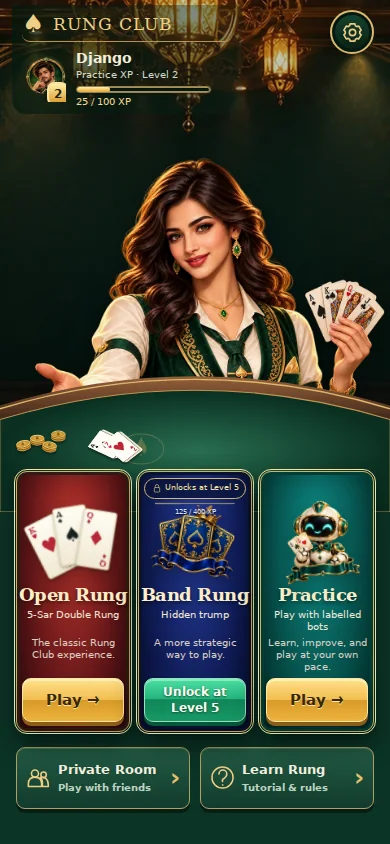
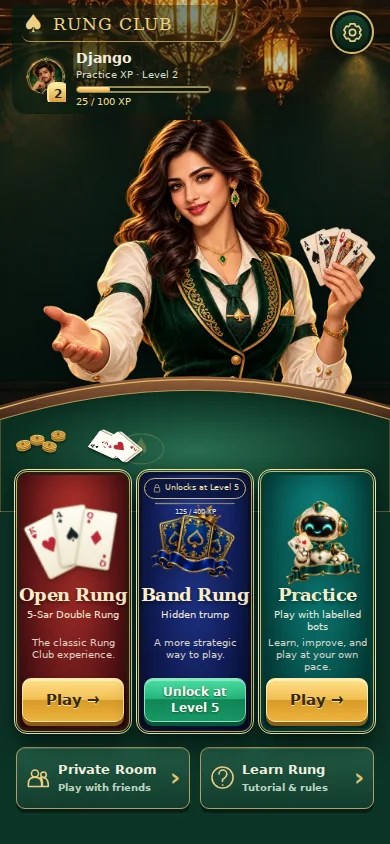
Keep dealer hands above mobile rail and retain one branded loading presentation

Changed region(s): [[0.0923, 0.1232, 0.9846, 0.4929]]

diff --git a/apps/web/main.tsx b/apps/web/main.tsx
@@ -33,7 +33,7 @@ function applyCloud(d:any){setCloudProfile(d);setProfile((p:any)=>({...p,name:d.
 async function enterClub(local:boolean,username=''){const revision=++identityRequest.current;sessionStorage.setItem('localGuest',local?'1':'0');setCloudProfile(null);setError('');if(local){const status=localStorage.getItem('onboarding:local') as TutorialStatus|null;restoreOnboarding('onboarding:local',status||(localStorage.getItem('welcome')==='1'?'completed':'not-started'));setScreen('lobby');return;}setScreen('account-loading');try{const user=await restoredIdentity();if(revision!==identityRequest.current)return;if(!user){setScreen('login');return;}setRequestedName(username);if(user.isAnonymous)setProfile((p:any)=>({...p,name:'Guest'}));const d=await accountProfile(username.trim()||undefined);if(revision!==identityRequest.current)return;applyCloud(d);setScreen(!user.isAnonymous&&/^Guest-/i.test(d.user.name)?'username':'lobby');}catch(e){if(revision===identityRequest.current){const message=authMessage(e);if(username&&/username|taken|reserved|3–20/i.test(message)){setScreen('username');setError(message);}else setError('Unable to load your profile. Retry to check your saved username.');}}}
 
 async function signOutClub(){try{identityRequest.current++;setIntro(false);setUnlock(false);setTutorial(-1);setAdvanced(null);await logout();sessionStorage.removeItem('localGuest');leave();setCloudProfile(null);setScreen('login');}catch(e){setError(authMessage(e));}}
-const [avatar,setAvatar]=useState(()=>normaliseAvatar(Number(localStorage.getItem('avatar')||1))),[cardBack,setCardBack]=useState(()=>localStorage.getItem('cardBack')||'emerald'),[emotesOpen,setEmotesOpen]=useState(false),[sortByRank,setSortByRank]=useState(false);useEffect(()=>{localStorage.setItem('avatar',String(avatar));},[avatar]);useEffect(()=>{localStorage.setItem('cardBack',cardBack);},[cardBack]);useEffect(()=>{const ready=()=>window.dispatchEvent(new Event('rung:ready'));if(window.requestAnimationFrame){const frame=window.requestAnimationFrame(ready);return()=>window.cancelAnimationFrame(frame);}const timer=setTimeout(ready,0);return()=>clearTimeout(timer);},[]);
+const [avatar,setAvatar]=useState(()=>normaliseAvatar(Number(localStorage.getItem('avatar')||1))),[cardBack,setCardBack]=useState(()=>localStorage.getItem('cardBack')||'emerald'),[emotesOpen,setEmotesOpen]=useState(false),[sortByRank,setSortByRank]=useState(false);useEffect(()=>{localStorage.setItem('avatar',String(avatar));},[avatar]);useEffect(()=>{localStorage.setItem('cardBack',cardBack);},[cardBack]);useEffect(()=>{if(screen==='account-loading'&&!error)return;const ready=()=>window.dispatchEvent(new Event('rung:ready'));if(window.requestAnimationFrame){const frame=window.requestAnimationFrame(ready);return()=>window.cancelAnimationFrame(frame);}const timer=setTimeout(ready,0);return()=>clearTimeout(timer);},[screen,error]);
 const [cloudProfile,setCloudProfile]=useState<any>(null);const [deadline,setDeadline]=useState(0),[remaining,setRemaining]=useState(20),[turnDuration,setTurnDuration]=useState(20000);const audio=useRef(new AudioEngine());const ws=useRef<WebSocket|null>(null),seq=useRef(0),canvas=useRef<HTMLDivElement|null>(null),phaser=useRef<any>(null),timers=useRef<ReturnType<typeof setTimeout>[]>([]),roomRef=useRef('');const v=remote||(game?view(game,0):null);const xp=cloudProfile?.totals.xp??profile.xp;const bandUnlocked=bandEligible(xp);const serverOffset=useRef(0);
 useEffect(()=>{if(!bandUnlocked||screen==='login'||screen==='account-loading'||screen==='username')return;const key='band-celebration:'+onboardingKey.current;if(!cloudProfile?.bandUnlockSeen&&localStorage.getItem(key)!=='1')setUnlock(true);},[bandUnlocked,screen]);
 useEffect(()=>{const a=audio.current;a.musicEnabled=settings.music;a.soundEnabled=settings.sound;if(settings.music)a.music(screen==='table'?'gameplay':'menu');else a.stop();const visibility=()=>document.hidden?a.pause():a.resume();document.addEventListener('visibilitychange',visibility);return()=>document.removeEventListener('visibilitychange',visibility);},[settings.music,settings.sound,screen]);useEffect(()=>{const id=setInterval(()=>setRemaining(Math.max(0,Math.ceil((deadline-(Date.now()+serverOffset.current))/1000))),1000);return()=>clearInterval(id);},[deadline]);useEffect(()=>{localStorage.setItem('profile',JSON.stringify(profile));},[profile]);useEffect(()=>{localStorage.setItem('settings',JSON.stringify(settings));},[settings]);
@@ -55,7 +55,7 @@ async function refreshCloud(){if(!configured)return;try{applyCloud(await account
 function leave(){pending.current=null;setSubmitting(false);ws.current?.close();ws.current=null;setOnline(false);setRemote(null);setGame(null);setAdvanced(null);setTutorial(-1);setScreen('lobby');setError('');setEmotesOpen(false);setSelected('');}
 function card(c:Card,small=false){return <span className={'card-face'+(small?' small':'')}><img src={art('house/cards/'+rank(c.rank)+c.suit+'.svg')} alt="" draggable={false}/></span>;}
 function sendReaction(text:string){if(online)ws.current?.send(JSON.stringify({type:'emote',text}));else{setChat(text);timers.current.push(setTimeout(()=>setChat(''),2500));}setEmotesOpen(false);}
-return <div className={(settings.motion?'app':'app reduced')+' screen-'+screen+(screen==='settings'?' screen-lobby settings-open'+(drawerClosing?' drawer-closing':''):'')} style={{'--card-back':`url(${art('backs/'+cardBack+'.svg')})`} as React.CSSProperties}>{(screen==='lobby'||screen==='settings')&&<Header screen={screen} profile={profile} avatar={avatar} cloudProfile={cloudProfile} online={online} leave={leave} setScreen={setScreen}/>} {screen==='settings'&&<button className="drawer-backdrop" aria-label="Close settings" tabIndex={-1} onClick={closeDrawer}/>} {screen==='account-loading'&&<main className="account-loading"><div className="boot-deck" aria-hidden="true"><span className="boot-card">♠</span><span className="boot-card">♣</span><span className="boot-card">♦</span></div><p role="status">Checking your seat…</p>{error&&<div className="account-retry"><button className="gold" onClick={()=>enterClub(false,requestedName)}>Retry profile</button><button className="quiet" onClick={()=>enterClub(true)}>Local practice</button><button className="quiet" onClick={signOutClub}>Sign out</button></div>}</main>} {screen==='delete-account'&&<AccountDeletion local={!configured||sessionStorage.getItem('localGuest')==='1'} onCancel={()=>setScreen('settings')} onDeleted={async()=>{for(const key of ['profile','avatar','cardBack','welcome','onboarding:local'])localStorage.removeItem(key);setProfile({name:'Guest',matches:0,wins:0,xp:0,tutorial:false});setAvatar(1);setCardBack('emerald');await signOutClub();}}/>} {screen==='login'&&<Login onEnter={enterClub}/>} {screen==='username'&&<main className="panel username-page"><UsernameForm key={requestedName} initial={requestedName} standalone onSaved={d=>{applyCloud(d);setError('');setScreen('lobby');}} onCancel={signOutClub}/></main>} {error&&<div role="alert" className="notice"><span>{error}</span><button onClick={()=>setError('')}>×</button></div>}
+return <div className={(settings.motion?'app':'app reduced')+' screen-'+screen+(screen==='settings'?' screen-lobby settings-open'+(drawerClosing?' drawer-closing':''):'')} style={{'--card-back':`url(${art('backs/'+cardBack+'.svg')})`} as React.CSSProperties}>{(screen==='lobby'||screen==='settings')&&<Header screen={screen} profile={profile} avatar={avatar} cloudProfile={cloudProfile} online={online} leave={leave} setScreen={setScreen}/>} {screen==='settings'&&<button className="drawer-backdrop" aria-label="Close settings" tabIndex={-1} onClick={closeDrawer}/>} {screen==='account-loading'&&<main className="boot-screen account-loading"><div className="boot-content"><h1 className="boot-brand">RUNG <b>CLUB</b></h1><p className="boot-kicker">A SEAT AT THE TABLE</p><div className="boot-deck" aria-hidden="true"><span className="boot-card">♠</span><span className="boot-card">♣</span><span className="boot-card">♦</span></div><p className="boot-message" role="status">Shuffling a little company…</p><div className="boot-dots" aria-hidden="true"><i/><i/><i/></div><p className="boot-note">GOOD CARDS. GREAT COMPANY.</p>{error&&<div className="account-retry"><p role="alert">{error}</p><button className="gold" onClick={()=>enterClub(false,requestedName)}>Retry profile</button><button className="quiet" onClick={()=>enterClub(true)}>Local practice</button><button className="quiet" onClick={signOutClub}>Sign out</button></div>}</div></main>} {screen==='delete-account'&&<AccountDeletion local={!configured||sessionStorage.getItem('localGuest')==='1'} onCancel={()=>setScreen('settings')} onDeleted={async()=>{for(const key of ['profile','avatar','cardBack','welcome','onboarding:local'])localStorage.removeItem(key);setProfile({name:'Guest',matches:0,wins:0,xp:0,tutorial:false});setAvatar(1);setCardBack('emerald');await signOutClub();}}/>} {screen==='login'&&<Login onEnter={enterClub}/>} {screen==='username'&&<main className="panel username-page"><UsernameForm key={requestedName} initial={requestedName} standalone onSaved={d=>{applyCloud(d);setError('');setScreen('lobby');}} onCancel={signOutClub}/></main>} {error&&screen!=='account-loading'&&<div role="alert" className="notice"><span>{error}</span><button onClick={()=>setError('')}>×</button></div>}
 {screen==='welcome'&&<main className="welcome"><Dealer/><div className="welcome-copy"><div className="eyebrow">YOUR SEAT IS WAITING</div><h1>Good cards.<br/>Better company.</h1><p>Four players. Two teams. Thirteen Sars.<br/>Welcome to the card house.</p><button className="gold" onClick={()=>practice(true)}>Learn to Play <Icon name="forward"/></button><button className="quiet" onClick={()=>{localStorage.setItem('welcome','1');setScreen('lobby');}}>Skip Tutorial</button></div></main>}
 {((intro&&(screen==='lobby'||screen==='table'))||(tutorial>=0&&screen==='table'))&&<button className="onboarding-skip" onClick={skipTutorial}>Skip Tutorial</button>}{unlock&&<div className="unlock-modal" role="dialog" aria-label="Band Rung unlocked"><section><span className="eyebrow">LEVEL 5 REACHED</span><h2>Band Rung is yours.</h2><p>Your next challenge: keep Rung hidden until the reveal.</p><button className="gold" onClick={()=>{setUnlock(false);localStorage.setItem('band-celebration:'+onboardingKey.current,'1');if(cloudProfile)accountProfile(undefined,undefined,true).then(d=>setCloudProfile(d)).catch(()=>{});}}>Continue</button></section></div>}{(screen==='lobby'||screen==='settings')&&<div className="lobby-background" inert={screen==='settings'}><Lobby mode={mode} setMode={setMode} play={multiplayer} practice={()=>practice()} learn={()=>practice(true)} setScreen={setScreen} profile={{...profile,xp}} avatar={avatar} intro={intro} onIntro={()=>practice(true)} join={join} setJoin={setJoin}/></div>}
 {screen==='table'&&v&&<main className={'table-page'+(tutorial>=0?' teaching':'')}><div className="table-top"><BackButton onClick={leave} label="Lobby"/><span>{v.mode==='open'?'OPEN RUNG':'BAND RUNG'} <small>5-Sar Double Rung</small></span><span className="status">{online?connection+(started&&v?.phase!=='finished'?' · '+remaining+'s':''):'Practice · '+skill}</span></div>{online&&connection==='Disconnected'&&<div className="reconnect-banner" role="status"><span>Connection lost. Your server timer continues.</span><button onClick={()=>connect(roomRef.current)}>Reconnect</button></div>}{tutorial>=0&&<aside className="lesson guide"><Dealer small/><span className="eyebrow">YOUR FIRST HAND · {Math.min(8,(v.history.length||0)+tutorial+1)} / 8</span><p>{tutorial===0?"Rung is played by two teams. Your partner sits opposite you.":tutorial===1?"The first five cards decide Rung. Choose hearts: the trump suit can cut when you cannot follow suit.":v.history.length===0?"Your 13 cards are ready. Select the highlighted king of clubs, then confirm with Play. Follow the led suit whenever you can.":v.history.length===1?"You won the Sar and became Senior. Lead the two of clubs to see how control can pass to another seat.":v.history.length===2?"When spades are led, you have none. Cut with the ace of hearts: Rung defeats even an ace of another suit.":v.history.length===3?"You are Senior again. Lead the king of hearts. We cannot collect before Sar 5.":v.history.length===4?"Win with the queen of hearts. The same player winning Sars 4 and 5 collects the entire opening pile.":"Well played! Five Sars collected for your team. You know the basics: follow suit, use Rung, control Senior and collect with consecutive wins."}</p>{tutorial===0&&<button className="gold" onClick={()=>setTutorial(1)}>Begin dealing</button>}{v.history.length>=5&&<><button className="gold" onClick={()=>{saveOnboarding('completed');setTutorial(-1);setMode('open');leave();}}>Play Open Rung</button><button onClick={()=>{saveOnboarding('completed');setTutorial(-1);setMode('open');practice(false,'open');}}>Practice with Bots</button><button onClick={()=>{saveOnboarding('completed');setTutorial(-1);leave();setScreen('rules');}}>Learn Advanced Rules</button></>}</aside>}

diff --git a/apps/web/index.html b/apps/web/index.html
@@ -4,14 +4,14 @@
 <meta charset="UTF-8"><meta name="viewport" content="width=device-width, initial-scale=1, viewport-fit=cover"><meta name="theme-color" content="#092e26"><link rel="manifest" href="/manifest.webmanifest"><title>Rung Club · A seat at the table</title>
 <style>
 /* Original CSS card choreography. No font, artwork or script download required. */
-html,body{margin:0;background:#071d16}#boot-screen{position:fixed;inset:0;z-index:1000;display:grid;place-items:center;padding:24px;box-sizing:border-box;color:#f4e4bf;background:radial-gradient(ellipse at 50% 38%,#194d39 0%,#0b2c21 46%,#061810 100%);font-family:system-ui,-apple-system,sans-serif;text-align:center;opacity:1;transition:opacity .18s ease;overflow:hidden}#boot-screen:before{content:'';position:absolute;inset:16px;border:1px solid #bd9c4f38;border-radius:20px;pointer-events:none}.boot-content{position:relative;max-width:360px;width:100%}.boot-brand{font-family:Georgia,serif;font-size:clamp(27px,7vw,36px);letter-spacing:4px;margin:0;color:#f6dfaa;font-weight:400}.boot-brand b{font-weight:400;color:#c5a368}.boot-kicker{font-size:9px;letter-spacing:4px;color:#c2b587;margin:12px 0 0}.boot-deck{position:relative;width:200px;height:168px;margin:38px auto 16px;perspective:600px}.boot-card{position:absolute;left:57px;top:20px;width:84px;height:120px;border:1px solid #e7c878;border-radius:9px;background:linear-gradient(145deg,#255c45,#103528);box-shadow:0 10px 22px #0006,inset 0 0 0 4px #103428,inset 0 0 0 5px #b9954f;display:grid;place-items:center;color:#e8cc88;font:36px Georgia,serif;will-change:transform;animation:boot-shuffle 1.65s ease-in-out infinite;transform:rotate(-12deg)}.boot-card:after{content:'';position:absolute;inset:11px;border:1px solid #be9c5666;border-radius:4px}.boot-card:nth-child(2){animation-delay:-.55s;background:linear-gradient(145deg,#387354,#174332)}.boot-card:nth-child(3){animation-delay:-1.1s;background:linear-gradient(145deg,#306349,#123c2c)}#boot-message{font-size:12px;line-height:1.7;color:#d9d6bd;margin:0;min-height:21px}.boot-dots{display:flex;justify-content:center;gap:7px;margin:17px 0 28px}.boot-dots i{width:4px;height:4px;border-radius:50%;background:#d8bc74;animation:boot-pulse 1.2s ease-in-out infinite}.boot-dots i:nth-child(2){animation-delay:.2s}.boot-dots i:nth-child(3){animation-delay:.4s}.boot-note{color:#92ac97;font-size:10px;letter-spacing:1px;margin:0}#boot-retry{margin:18px auto 0;background:#163e2d;color:#f2d99d;border:1px solid #b79c62;border-radius:8px;padding:12px 22px;min-height:44px;font:inherit;font-size:12px;cursor:pointer}#boot-retry[hidden]{display:none}#boot-retry:focus-visible{outline:3px solid #ffe3a4;outline-offset:4px}#boot-screen.boot-complete{opacity:0;pointer-events:none}.boot-error .boot-card,.boot-error .boot-dots i{animation-play-state:paused}
+html,body{margin:0;background:#071d16}.boot-screen{position:fixed;inset:0;z-index:1000;display:grid;place-items:center;padding:24px;box-sizing:border-box;color:#f4e4bf;background:radial-gradient(ellipse at 50% 38%,#194d39 0%,#0b2c21 46%,#061810 100%);font-family:system-ui,-apple-system,sans-serif;text-align:center;opacity:1;transition:opacity .18s ease;overflow:hidden}.boot-screen:before{content:'';position:absolute;inset:16px;border:1px solid #bd9c4f38;border-radius:20px;pointer-events:none}.boot-content{position:relative;max-width:360px;width:100%}.boot-brand{font-family:Georgia,serif;font-size:clamp(27px,7vw,36px);letter-spacing:4px;margin:0;color:#f6dfaa;font-weight:400}.boot-brand b{font-weight:400;color:#c5a368}.boot-kicker{font-size:9px;letter-spacing:4px;color:#c2b587;margin:12px 0 0}.boot-deck{position:relative;width:200px;height:168px;margin:38px auto 16px;perspective:600px}.boot-card{position:absolute;left:57px;top:20px;width:84px;height:120px;border:1px solid #e7c878;border-radius:9px;background:linear-gradient(145deg,#255c45,#103528);box-shadow:0 10px 22px #0006,inset 0 0 0 4px #103428,inset 0 0 0 5px #b9954f;display:grid;place-items:center;color:#e8cc88;font:36px Georgia,serif;will-change:transform;animation:boot-shuffle 1.65s ease-in-out infinite;transform:rotate(-12deg)}.boot-card:after{content:'';position:absolute;inset:11px;border:1px solid #be9c5666;border-radius:4px}.boot-card:nth-child(2){animation-delay:-.55s;background:linear-gradient(145deg,#387354,#174332)}.boot-card:nth-child(3){animation-delay:-1.1s;background:linear-gradient(145deg,#306349,#123c2c)}.boot-message{font-size:12px;line-height:1.7;color:#d9d6bd;margin:0;min-height:21px}.boot-dots{display:flex;justify-content:center;gap:7px;margin:17px 0 28px}.boot-dots i{width:4px;height:4px;border-radius:50%;background:#d8bc74;animation:boot-pulse 1.2s ease-in-out infinite}.boot-dots i:nth-child(2){animation-delay:.2s}.boot-dots i:nth-child(3){animation-delay:.4s}.boot-note{color:#92ac97;font-size:10px;letter-spacing:1px;margin:0}#boot-retry{margin:18px auto 0;background:#163e2d;color:#f2d99d;border:1px solid #b79c62;border-radius:8px;padding:12px 22px;min-height:44px;font:inherit;font-size:12px;cursor:pointer}#boot-retry[hidden]{display:none}#boot-retry:focus-visible{outline:3px solid #ffe3a4;outline-offset:4px}.boot-screen.boot-complete{opacity:0;pointer-events:none}.boot-error .boot-card,.boot-error .boot-dots i{animation-play-state:paused}
 @keyframes boot-shuffle{0%,100%{transform:translateX(-26px) translateY(3px) rotate(-14deg);z-index:1}33%{transform:translateX(40px) translateY(-10px) rotate(15deg);z-index:3}66%{transform:translateX(-3px) translateY(5px) rotate(-3deg);z-index:2}}@keyframes boot-pulse{0%,100%{opacity:.3}50%{opacity:1}}
-@media(prefers-reduced-motion:reduce){#boot-screen{transition:none}.boot-card{animation:none;transform:translateX(-30px) rotate(-12deg)}.boot-card:nth-child(2){transform:translateY(-6px);z-index:2}.boot-card:nth-child(3){transform:translateX(30px) rotate(12deg);z-index:3}.boot-dots i{animation:none;opacity:.7}}
-@media(max-height:450px){.boot-deck{margin:14px auto 0;height:145px}.boot-kicker{margin-top:8px}.boot-dots{margin:10px 0}.boot-note{font-size:9px}#boot-screen:before{inset:10px}}
+@media(prefers-reduced-motion:reduce){.boot-screen{transition:none}.boot-card{animation:none;transform:translateX(-30px) rotate(-12deg)}.boot-card:nth-child(2){transform:translateY(-6px);z-index:2}.boot-card:nth-child(3){transform:translateX(30px) rotate(12deg);z-index:3}.boot-dots i{animation:none;opacity:.7}}
+@media(max-height:450px){.boot-deck{margin:14px auto 0;height:145px}.boot-kicker{margin-top:8px}.boot-dots{margin:10px 0}.boot-note{font-size:9px}.boot-screen:before{inset:10px}}
 </style>
 </head>
 <body>
-<section id="boot-screen" aria-label="Loading Rung Club"><div class="boot-content"><h1 class="boot-brand">RUNG <b>CLUB</b></h1><p class="boot-kicker">A SEAT AT THE TABLE</p><div class="boot-deck" aria-hidden="true"><span class="boot-card">♠</span><span class="boot-card">♣</span><span class="boot-card">♦</span></div><p id="boot-message" role="status" aria-live="polite">Shuffling a little company…</p><div class="boot-dots" aria-hidden="true"><i></i><i></i><i></i></div><p class="boot-note">GOOD CARDS. GREAT COMPANY.</p><button id="boot-retry" type="button" hidden>Try again</button><noscript><p>Enable JavaScript to enter the club.</p></noscript></div></section>
+<section id="boot-screen" class="boot-screen" aria-label="Loading Rung Club"><div class="boot-content"><h1 class="boot-brand">RUNG <b>CLUB</b></h1><p class="boot-kicker">A SEAT AT THE TABLE</p><div class="boot-deck" aria-hidden="true"><span class="boot-card">♠</span><span class="boot-card">♣</span><span class="boot-card">♦</span></div><p id="boot-message" class="boot-message" role="status" aria-live="polite">Shuffling a little company…</p><div class="boot-dots" aria-hidden="true"><i></i><i></i><i></i></div><p class="boot-note">GOOD CARDS. GREAT COMPANY.</p><button id="boot-retry" type="button" hidden>Try again</button><noscript><p>Enable JavaScript to enter the club.</p></noscript></div></section>
 <div id="root" inert aria-hidden="true"></div><script type="module" src="/bootstrap.ts"></script>
 </body>
 </html>

diff --git a/tests/account-identity.test.tsx b/tests/account-identity.test.tsx
@@ -10,9 +10,9 @@ beforeEach(()=>{identity.anonymous=false;identity.present=true;localStorage.clea
 it('restores the registered account name rather than Guest or another local player',async()=>{vi.mocked(fetch).mockResolvedValue(Response.json(profile('SeniorUsama')));render(<App/>);await screen.findByRole('button',{name:'Practice table'});expect(screen.getAllByText('SeniorUsama',{exact:true})).toHaveLength(1);expect(screen.queryByText('PreviousPlayer',{exact:true})).toBeNull();expect(screen.queryByLabelText('Choose your username')).toBeNull();});
 it('requires unnamed registered members to choose a unique name, and can retry a conflict',async()=>{vi.mocked(fetch).mockResolvedValueOnce(Response.json(profile('Guest-member'))).mockResolvedValueOnce(Response.json({error:'That username is taken.'},{status:409})).mockResolvedValueOnce(Response.json(profile('Baazi_2')));render(<App/>);const input=await screen.findByLabelText('Username');expect(screen.queryByRole('button',{name:'Practice table'})).toBeNull();fireEvent.change(input,{target:{value:'Baazi'}});fireEvent.click(screen.getByRole('button',{name:'Take my seat'}));await screen.findByText('That username is taken.');expect(screen.queryByRole('button',{name:'Practice table'})).toBeNull();fireEvent.change(input,{target:{value:'Baazi_2'}});fireEvent.click(screen.getByRole('button',{name:'Take my seat'}));await screen.findByRole('button',{name:'Practice table'});expect(screen.getAllByText('Baazi_2',{exact:true})).toHaveLength(1);await waitFor(()=>expect(JSON.parse(localStorage.getItem('profile')!).name).toBe('Baazi_2'));});
 it('does not assume a username is missing when the profile service fails',async()=>{vi.mocked(fetch).mockRejectedValueOnce(Error('Offline')).mockResolvedValueOnce(Response.json(profile('SeniorUsama')));render(<App/>);await screen.findByText('Unable to load your profile. Retry to check your saved username.');expect(screen.queryByLabelText('Username')).toBeNull();expect(screen.queryByRole('button',{name:'Practice table'})).toBeNull();fireEvent.click(screen.getByRole('button',{name:'Retry profile'}));await screen.findByRole('button',{name:'Practice table'});expect(screen.queryByLabelText('Username')).toBeNull();});
-it('never flashes username setup while an existing profile request is pending',async()=>{let resolve!:(response:Response)=>void;vi.mocked(fetch).mockImplementationOnce(()=>new Promise<Response>(r=>{resolve=r;}));render(<App/>);await screen.findByText('Checking your seat…');expect(screen.queryByLabelText('Username')).toBeNull();await act(async()=>{resolve(Response.json(profile('SeniorUsama')));});await screen.findByRole('button',{name:'Practice table'});expect(screen.queryByLabelText('Username')).toBeNull();});
+it('keeps the first loading screen until the profile resolves without flashing username setup',async()=>{const ready=vi.fn();window.addEventListener('rung:ready',ready,{once:true});let resolve!:(response:Response)=>void;vi.mocked(fetch).mockImplementationOnce(()=>new Promise<Response>(r=>{resolve=r;}));render(<App/>);await screen.findByText('Shuffling a little company…');await waitFor(()=>expect(fetch).toHaveBeenCalled());expect(ready).not.toHaveBeenCalled();expect(screen.queryByText('Checking your seat…')).toBeNull();expect(screen.queryByLabelText('Username')).toBeNull();await act(async()=>{resolve(Response.json(profile('SeniorUsama')));});await screen.findByRole('button',{name:'Practice table'});expect(screen.queryByLabelText('Username')).toBeNull();});
 
-it('a delayed guest profile checks onboarding before displaying the lobby',async()=>{identity.anonymous=true;let resolve!:(response:Response)=>void;vi.mocked(fetch).mockImplementationOnce(()=>new Promise<Response>(r=>{resolve=r;}));render(<App/>);await screen.findByText('Checking your seat…');expect(screen.queryByRole('button',{name:'Skip Tutorial'})).toBeNull();await act(async()=>{resolve(Response.json({...profile('Guest-member'),tutorialStatus:'not-started'}));});await screen.findByRole('button',{name:'Practice table'});expect(screen.getByRole('button',{name:'Skip Tutorial'})).toBeTruthy();fireEvent.click(screen.getByRole('button',{name:'Skip Tutorial'}));expect(localStorage.getItem('onboarding:member')).toBe('skipped');});
+it('a delayed guest profile checks onboarding before displaying the lobby',async()=>{identity.anonymous=true;let resolve!:(response:Response)=>void;vi.mocked(fetch).mockImplementationOnce(()=>new Promise<Response>(r=>{resolve=r;}));render(<App/>);await screen.findByText('Shuffling a little company…');expect(screen.queryByRole('button',{name:'Skip Tutorial'})).toBeNull();await act(async()=>{resolve(Response.json({...profile('Guest-member'),tutorialStatus:'not-started'}));});await screen.findByRole('button',{name:'Practice table'});expect(screen.getByRole('button',{name:'Skip Tutorial'})).toBeTruthy();fireEvent.click(screen.getByRole('button',{name:'Skip Tutorial'}));expect(localStorage.getItem('onboarding:member')).toBe('skipped');});
 it('linked guests and returning identities retain terminal onboarding state',async()=>{localStorage.setItem('onboarding:member','completed');vi.mocked(fetch).mockResolvedValue(Response.json({...profile('SeniorUsama'),tutorialStatus:'not-started'}));render(<App/>);await screen.findByRole('button',{name:'Practice table'});expect(screen.queryByRole('button',{name:'Skip Tutorial'})).toBeNull();});
 
 it('reserves the signup username before opening the lobby without a second naming step',async()=>{identity.present=false;vi.mocked(fetch).mockImplementation(async()=>Response.json(profile('Baazi_123')));render(<App/>);await screen.findByRole('button',{name:'Create Account'});fireEvent.click(screen.getByRole('button',{name:'Create Account'}));fireEvent.change(screen.getByLabelText('Username'),{target:{value:'Baazi_123'}});fireEvent.change(screen.getByLabelText('Email address'),{target:{value:'player@example.com'}});fireEvent.change(screen.getByLabelText('Password',{exact:true}),{target:{value:'secret123'}});fireEvent.click(screen.getByRole('button',{name:'Create account'}));await screen.findByRole('button',{name:'Practice table'});expect(screen.queryByRole('button',{name:'Take my seat'})).toBeNull();expect(fetch).toHaveBeenCalledWith('/api/identity',expect.objectContaining({method:'PATCH',body:JSON.stringify({name:'Baazi_123'})}));});

diff --git a/apps/web/lobby.css b/apps/web/lobby.css
@@ -158,3 +158,12 @@
  .table-coins{top:38px;transform:scale(.4)}
  .table-deck{top:42px;transform:scale(.4)}
 }
+
+/* Raise the complete host above the rail so both hands remain intact. */
+@media(max-width:600px){
+ .screen-lobby .lobby-host{overflow:visible}
+ .screen-lobby .lobby-host>.dealer{height:calc(var(--host-height) - 20px);bottom:40px}
+}
+@media(max-width:600px) and (max-height:700px){
+ .screen-lobby .lobby-host>.dealer{height:calc(var(--host-height) - 40px);bottom:60px}
+}

diff --git a/docs/art/LOBBY_REDESIGN_QA.md b/docs/art/LOBBY_REDESIGN_QA.md
@@ -54,3 +54,10 @@ Eight responsive tests pass, including new mobile card aspect-ratio and viewport
 ## Decorative cards and chips on felt
 
 Fixed the mobile foreground rail height independently of the full table area. Moved and scaled the decorative cards and chips below the curved felt boundary at desktop, portrait and landscape sizes. Fresh screenshots show them resting on the table rather than floating outside its edge. All eight responsive cases passed, including a new check against the actual SVG felt curve for every decorative card and chip.
+
+
+## Full dealer hands and one loading presentation
+
+Raised/resized the whole dealer above the rail in portrait, with a separate compact-height adjustment. The body remains behind the table and both hands remain visible. Kept the original branded boot screen until account restoration resolves; removed Checking your seat and used the original branding for later account loading as well. Profile errors retain retry, local practice and sign-out actions.
+
+25 account/auth tests and 10 browser cases passed. The final compact-phone adjustment passed its targeted 320×640 check. Production build and Android asset sync passed. Portrait and small-phone screenshot evidence updated.
